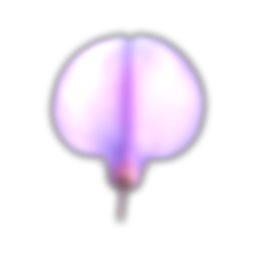
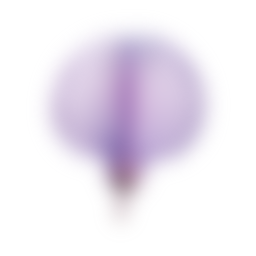
feat(hero): petalas com mais blur + camada propria acima do texto (sol continua atras)

Changed region(s): [[0.1875, 0.125, 0.8125, 0.875]]

diff --git a/components/three/HeroScene.tsx b/components/three/HeroScene.tsx
@@ -938,27 +938,59 @@ export function HeroScene({ progressRef }: HeroSceneProps) {
     return <DecorativeFallback />;
   }
 
+  // DUAS camadas 3D separadas, não mais uma só — pedido explícito: as
+  // pétalas precisam ficar POR CIMA da caligrafia (`Gabriela & Emanuel`,
+  // `z-20` em `HeroSection.tsx`), enquanto o raio de sol continua por
+  // TRÁS de tudo, igual sempre foi. Um único `<canvas>` não consegue ter
+  // metade do desenho atrás de um elemento HTML e a outra metade na
+  // frente — o `z-index` vale pro elemento inteiro. A saída é ter dois
+  // `<Canvas>` do R3F independentes, cada um com seu próprio `z-index`:
+  // um atrás (`-z-10`, só o sol) e outro na frente (`z-30`, só as
+  // pétalas, maior que o `z-20` do texto). Os dois leem o MESMO
+  // `resolvedProgressRef`, então continuam sincronizados com a rolagem
+  // como uma cena só, mesmo sendo tecnicamente duas.
+  //
+  // Custo: um segundo contexto WebGL (mais um `<canvas>` na página) — a
+  // cena já tinha sido enxugada antes (menos partículas/ghosts, ver
+  // `PARTICLE_COUNT`) especificamente por causa de orçamento de
+  // performance no mobile, então isso pesa um pouco mais. Como cada
+  // camada sozinha é bem leve (só esferas/sprites simples, sem
+  // pós-processamento), o total ainda fica dentro do orçamento.
   return (
-    <div ref={containerRef} aria-hidden="true" className="absolute inset-0 -z-10">
-      <WebglErrorBoundary onFailure={() => setStatus("fallback")}>
-        <Canvas
-          dpr={[1, 1.5]}
-          camera={{ position: [0, 0, 6], fov: 50 }}
-          gl={{ antialias: false, alpha: true }}
-          onCreated={({ gl }) => gl.setClearColor(0x000000, 0)}
-        >
-          <ambientLight intensity={0.6} />
-          <SunRays progressRef={resolvedProgressRef} />
-          {PETAL_TEXTURE_URLS.map((url) => (
-            <FallingPetals
-              key={url}
-              progressRef={resolvedProgressRef}
-              textureUrl={url}
-              count={Math.round(PARTICLE_COUNT / PETAL_TEXTURE_URLS.length)}
-            />
-          ))}
-        </Canvas>
-      </WebglErrorBoundary>
-    </div>
+    <>
+      <div ref={containerRef} aria-hidden="true" className="absolute inset-0 -z-10">
+        <WebglErrorBoundary onFailure={() => setStatus("fallback")}>
+          <Canvas
+            dpr={[1, 1.5]}
+            camera={{ position: [0, 0, 6], fov: 50 }}
+            gl={{ antialias: false, alpha: true }}
+            onCreated={({ gl }) => gl.setClearColor(0x000000, 0)}
+          >
+            <ambientLight intensity={0.6} />
+            <SunRays progressRef={resolvedProgressRef} />
+          </Canvas>
+        </WebglErrorBoundary>
+      </div>
+      <div aria-hidden="true" className="pointer-events-none absolute inset-0 z-30">
+        <WebglErrorBoundary onFailure={() => setStatus("fallback")}>
+          <Canvas
+            dpr={[1, 1.5]}
+            camera={{ position: [0, 0, 6], fov: 50 }}
+            gl={{ antialias: false, alpha: true }}
+            onCreated={({ gl }) => gl.setClearColor(0x000000, 0)}
+          >
+            <ambientLight intensity={0.6} />
+            {PETAL_TEXTURE_URLS.map((url) => (
+              <FallingPetals
+                key={url}
+                progressRef={resolvedProgressRef}
+                textureUrl={url}
+                count={Math.round(PARTICLE_COUNT / PETAL_TEXTURE_URLS.length)}
+              />
+            ))}
+          </Canvas>
+        </WebglErrorBoundary>
+      </div>
+    </>
   );
 }
